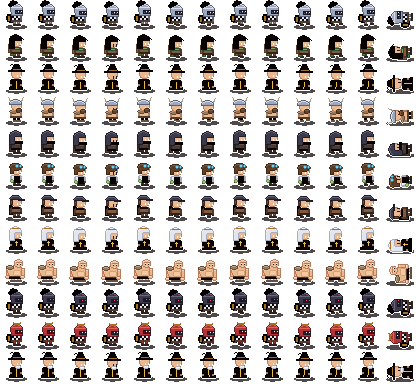
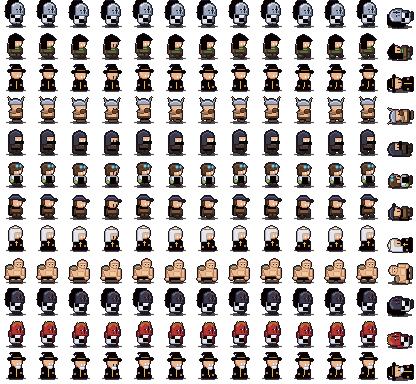
참고 그림처럼 도트 다듬기: 진한 검정 테두리, 큰 통투구·십자 눈 틈·흘러내리는 깃털, 4등분 겉옷
- 팀 색은 캐릭터 테두리 대신 발밑 고리로
- 유닛 해금 연출 (빛줄기 + 큰 도트 + 이름)

Claude-Session: https://claude.ai/code/session_01Fxb29UthuHm5NupsxcALjM

diff --git a/src/render.js b/src/render.js
@@ -52,7 +52,7 @@ function whiteSilhouette(img) {
 const hexRgb = (h) => [parseInt(h.slice(1, 3), 16), parseInt(h.slice(3, 5), 16), parseInt(h.slice(5, 7), 16)];
 
 // 캐릭터 도트: assets/heroes.png (tools/make_heroes.py). 한 줄 = 디자인 하나, 가로 13프레임
-// 바깥 흰 테두리 → 팀 색, 천 색(7,0,0/1/2) → 스킨·유닛 색, 안쪽 흰색(눈) → 스킨 눈 색
+// 발밑 고리(254,254,254) → 팀 색, 천 색(7,0,0/1/2) → 스킨·유닛 색, 흰색(눈) → 스킨 눈 색
 export const DESIGNS = ['knight', 'ranger', 'mage', 'berserker', 'rogue', 'alchemist', 'scout', 'priest', 'giant', 'darkknight', 'samurai', 'wizard'];
 // 디자인마다 기본 천 색 (기본 스킨 '그림자'일 때)
 const DESIGN_CLOTH = {
@@ -80,11 +80,6 @@ export function tintedPlayer(color, skin = 'shadow', design = 'knight') {
   g.drawImage(img, 0, row * 32, img.width, 32, 0, 0, img.width, 32);
   const data = g.getImageData(0, 0, c.width, c.height);
   const px = data.data, w = c.width, h = c.height;
-  const isOpen = (x, y) => {
-    if (x < 0 || y < 0 || x >= w || y >= h || (x % 32 === 0 && false)) return true;
-    const i = (y * w + x) * 4;
-    return px[i + 3] === 0 || (px[i] === 80 && px[i + 1] === 73 && px[i + 2] === 73); // 투명 또는 그림자
-  };
   const team = hexRgb(color), eye = hexRgb(S.eye || '#ffffff'), base = hexRgb(cloth);
   const clothCols = [base, shade(base, 0.35), shade(base, -0.45)];
   const out = new Uint8ClampedArray(px);
@@ -93,9 +88,8 @@ export function tintedPlayer(color, skin = 'shadow', design = 'knight') {
       const i = (y * w + x) * 4;
       if (px[i + 3] === 0) continue;
       if (px[i] === 7 && px[i + 1] === 0 && px[i + 2] <= 2) { const cc = clothCols[px[i + 2]]; out[i] = cc[0]; out[i + 1] = cc[1]; out[i + 2] = cc[2]; continue; }
-      if (px[i] !== 255 || px[i + 1] !== 255 || px[i + 2] !== 255) continue;
-      const cc = isOpen(x + 1, y) || isOpen(x - 1, y) || isOpen(x, y + 1) || isOpen(x, y - 1) ? team : eye;
-      out[i] = cc[0]; out[i + 1] = cc[1]; out[i + 2] = cc[2];
+      if (px[i] === 254 && px[i + 1] === 254 && px[i + 2] === 254) { out[i] = team[0]; out[i + 1] = team[1]; out[i + 2] = team[2]; continue; }
+      if (px[i] === 255 && px[i + 1] === 255 && px[i + 2] === 255) { out[i] = eye[0]; out[i + 1] = eye[1]; out[i + 2] = eye[2]; }
     }
   }
   g.putImageData(new ImageData(out, w, h), 0, 0);

diff --git a/src/panels.js b/src/panels.js
@@ -207,6 +207,18 @@ export function createAccountUI(root, { getSave, onLogin, onImport }) {
   return api;
 }
 
+// ---------------------------------------------------------------- 해금 연출 (빛줄기 + 큰 그림 + 이름)
+export function showReveal(imgSrc, name, sub = '') {
+  document.querySelector('.reveal')?.remove();
+  const el = document.createElement('div');
+  el.className = 'reveal';
+  el.innerHTML = `<div class="rays"></div><div class="rbody"><img src="${imgSrc}" alt=""><b>${esc(name)}</b>${sub ? `<small>${esc(sub)}</small>` : ''}</div>`;
+  const close = () => el.remove();
+  el.addEventListener('pointerdown', close);
+  setTimeout(close, 2600);
+  document.getElementById('wrap').appendChild(el);
+}
+
 // ---------------------------------------------------------------- 병영 (군단 편성)
 // 성키우기처럼: 정수로 유닛 해금·레벨업, 성 지키기에 데려갈 4종 선택 (4~7 키로 소환)
 export function createArmyUI(root, { getSave, onChange, preview }) {
@@ -246,7 +258,7 @@ export function createArmyUI(root, { getSave, onChange, preview }) {
     switch (b.dataset.army) {
       case 'close': api.close(); return;
       case 'unlock':
-        if (save.essence >= U.unlock && !A.unlocked.includes(k)) { save.essence -= U.unlock; A.unlocked.push(k); msg = `${U.name} 해금!`; }
+        if (save.essence >= U.unlock && !A.unlocked.includes(k)) { save.essence -= U.unlock; A.unlocked.push(k); msg = `${U.name} 해금!`; showReveal(preview(k), U.name, '새 군단 유닛 해금!'); }
         break;
       case 'up': {
         const lv = A.lv[k] || 1, cost = unitLevelCost(lv);
@@ -255,7 +267,10 @@ export function createArmyUI(root, { getSave, onChange, preview }) {
       }
       case 'sel':
         if (A.sel.includes(k)) A.sel = A.sel.filter((x) => x !== k);
-        else if (A.sel.length < ARMY_SLOTS) { if (k === 'giant' && !A.unlocked.includes(k)) A.unlocked.push(k); A.sel.push(k); }
+        else if (A.sel.length < ARMY_SLOTS) {
+          if (k === 'giant' && !A.unlocked.includes(k)) { A.unlocked.push(k); showReveal(preview(k), U.name, '전설 유닛 합류!'); }
+          A.sel.push(k);
+        }
         else msg = `${ARMY_SLOTS}종까지 데려갈 수 있어요. 하나를 먼저 빼세요`;
         break;
       default:

diff --git a/index.html b/index.html
@@ -4,24 +4,24 @@
   <meta charset="utf-8">
   <meta name="viewport" content="width=device-width, initial-scale=1">
   <title>던전 슈터</title>
-  <link rel="stylesheet" href="style.css?v=202610151143">
+  <link rel="stylesheet" href="style.css?v=202610151148">
   <!-- 버전 번호: 새로 올릴 때마다 tools/bump_version.py가 바꿔서, 예전 파일과 섞여 멈추는 문제를 막습니다 -->
-  <script>window.__ASSET_V = '202610151143';</script>
+  <script>window.__ASSET_V = '202610151148';</script>
   <script type="importmap">
   {
     "imports": {
-      "./src/main.js": "./src/main.js?v=202610151143",
-      "./src/game.js": "./src/game.js?v=202610151143",
-      "./src/data.js": "./src/data.js?v=202610151143",
-      "./src/maps.js": "./src/maps.js?v=202610151143",
-      "./src/net.js": "./src/net.js?v=202610151143",
-      "./src/render.js": "./src/render.js?v=202610151143",
-      "./src/tree.js": "./src/tree.js?v=202610151143",
-      "./src/treeui.js": "./src/treeui.js?v=202610151143",
-      "./src/guild.js": "./src/guild.js?v=202610151143",
-      "./src/guildui.js": "./src/guildui.js?v=202610151143",
-      "./src/config.js": "./src/config.js?v=202610151143",
-      "./src/panels.js": "./src/panels.js?v=202610151143"
+      "./src/main.js": "./src/main.js?v=202610151148",
+      "./src/game.js": "./src/game.js?v=202610151148",
+      "./src/data.js": "./src/data.js?v=202610151148",
+      "./src/maps.js": "./src/maps.js?v=202610151148",
+      "./src/net.js": "./src/net.js?v=202610151148",
+      "./src/render.js": "./src/render.js?v=202610151148",
+      "./src/tree.js": "./src/tree.js?v=202610151148",
+      "./src/treeui.js": "./src/treeui.js?v=202610151148",
+      "./src/guild.js": "./src/guild.js?v=202610151148",
+      "./src/guildui.js": "./src/guildui.js?v=202610151148",
+      "./src/config.js": "./src/config.js?v=202610151148",
+      "./src/panels.js": "./src/panels.js?v=202610151148"
     }
   }
   </script>

diff --git a/style.css b/style.css
@@ -271,3 +271,17 @@ button.link:hover:not(:disabled) { background: none; color: #d1c4e9; }
 .gcolors input { display: none; }
 .gcolors i { display: block; width: 28px; height: 28px; border-radius: 50%; border: 3px solid transparent; cursor: pointer; }
 .gcolors input:checked + i { border-color: #fff; }
+
+/* 해금 연출: 빛줄기 + 큰 도트 + 이름 */
+.reveal { position: absolute; inset: 0; z-index: 50; display: grid; place-items: center; overflow: hidden;
+  background: radial-gradient(circle, rgba(60,24,52,.85) 0%, rgba(10,6,14,.94) 70%); animation: rv-in .25s ease-out; cursor: pointer; }
+.reveal .rays { position: absolute; width: 180vmax; height: 180vmax; left: 50%; top: 50%; translate: -50% -50%;
+  background: repeating-conic-gradient(rgba(255,255,255,.13) 0 9deg, transparent 9deg 30deg); animation: rv-spin 14s linear infinite;
+  mask-image: radial-gradient(circle, #000 0%, transparent 45%); -webkit-mask-image: radial-gradient(circle, #000 0%, transparent 45%); }
+.reveal .rbody { position: relative; display: grid; justify-items: center; gap: 4px; animation: rv-pop .5s cubic-bezier(.2,1.6,.4,1); }
+.reveal img { width: 256px; height: 256px; image-rendering: pixelated; filter: drop-shadow(0 6px 0 rgba(0,0,0,.35)); }
+.reveal b { font-size: 64px; line-height: 1; color: #fff; margin-top: -40px; text-shadow: 0 4px 0 #1b1424, 0 0 18px rgba(0,0,0,.6); }
+.reveal small { color: #ffd54f; font-size: 18px; font-weight: 700; }
+@keyframes rv-spin { to { rotate: 360deg; } }
+@keyframes rv-in { from { opacity: 0; } }
+@keyframes rv-pop { from { scale: .3; opacity: 0; } }

diff --git a/tools/make_heroes.py b/tools/make_heroes.py
@@ -5,7 +5,7 @@
         assets/src/heroes-<디자인>.piskel  Piskel에서 열어 고칠 수 있는 한 줄짜리 원본
 
 색 약속 (게임이 바꿔 칠하는 색):
-  바깥 흰 테두리(255,255,255)  → 1P~4P 팀 색
+  발밑 고리(254,254,254)        → 1P~4P 팀 색 (캐릭터 테두리는 진한 검정)
   천 색 (7,0,0)/(7,0,1)/(7,0,2) → 스킨·유닛 색 (기본·밝게·어둡게)
   눈 흰색(255,255,255, 안쪽)    → 스킨 눈 색
 """
@@ -23,7 +23,8 @@ SRC = ASSETS / 'src'
 W = H = 32
 FRAMES = 13
 
-OUT_LINE = (255, 255, 255, 255)
+OUT_LINE = (24, 20, 30, 255)     # 바깥 테두리: 진한 검정 (참고 그림처럼)
+TEAM = (254, 254, 254, 255)       # 발밑 고리 → 팀 색
 EYE = (255, 255, 255, 255)
 CLOTH = ((7, 0, 0, 255), (7, 0, 1, 255), (7, 0, 2, 255))   # 기본, 밝게, 어둡게
 SHADOW = (80, 73, 73, 255)
@@ -137,46 +138,49 @@ def draw_eyes(s, f, y, x=(17, 20), tall=2):
 
 
 def knight(s, f, steel='steel', plume=True, eye_glow=False, samurai=False):
+    """참고 그림의 기사: 큰 통투구 + 십자 눈 틈, 등 뒤로 흘러내리는 깃털, 4등분 겉옷"""
     b = f['bob']
-    legs(s, f, steel)
-    # 등 뒤 망토
-    s.part(rect(9, 14 + b, 12, 22 + b), 'cloth')
-    arm(s, f, 10, steel)
-    torso(s, f, steel, belt='leather')
-    # 체크 무늬 겉옷 (천 색 + 흰색)
-    for y in range(16, 20):
-        for x in range(12, 20):
-            s.put(x, y + b, CLOTH[0] if ((x // 2 + y // 2) % 2 == 0) else P['white'][0])
-    for x in range(12, 20):
-        s.put(x, 15 + b, P[steel][2])
-    # 투구
-    helm = ellipse(16.5, 9.5 + b, 6.4, 6.2) | rect(11, 9 + b, 22, 15 + b)
-    s.part(helm, steel)
-    # 얼굴 가리개 + 눈 틈
-    s.part(rect(15, 10 + b, 22, 13 + b), (P[steel][2], P[steel][2], INK), light_dir=False)
-    for x in range(16, 22):
-        s.put(x, 11 + b, INK)
-    for ex in (18, 21):
-        s.put(ex, 11 + b, EYE if not eye_glow else (255, 82, 82, 255))
-    for y in (12, 13):
-        for x in range(17, 22, 2):
-            s.put(x, y + b, INK)
-    # 이마 줄
-    for x in range(12, 22):
-        s.put(x, 7 + b, P[steel][1])
-    if samurai:
-        # 투구 장식 (금색 뿔)
-        s.part({(13, 2 + b), (13, 3 + b), (14, 3 + b), (14, 4 + b), (20, 2 + b), (20, 3 + b), (19, 3 + b), (19, 4 + b)}, 'gold', light_dir=False)
-        s.part(rect(15, 3 + b, 18, 4 + b), 'gold')
-    elif plume:
-        # 깃털 (천 색): 투구 위에서 뒤로 넘어감
-        pl = ellipse(13, 3 + b, 3.2, 2.6) | ellipse(10.5, 5 + b, 2.4, 2.4) | ellipse(15.5, 2.5 + b, 2.2, 1.8)
+    legs(s, f, steel, boot='dsteel')
+    # 깃털 (투구 위에서 등 뒤로 흘러내림) - 투구보다 먼저 그려서 뒤에 있게
+    if plume and not samurai:
+        pl = (ellipse(12, 3 + b, 4.2, 3.2) | ellipse(9.5, 7 + b, 3.6, 3.6) | ellipse(8.5, 11.5 + b, 3, 3.4)
+              | ellipse(8.5, 15.5 + b, 2.6, 2.6) | ellipse(15.5, 1.8 + b, 3, 2))
         s.part(pl, 'cloth')
-    arm(s, f, 20, steel)
-    # 방패 (뒤쪽 팔)
-    sh = ellipse(9, 18 + b, 3.2, 4)
-    s.part(sh, 'cloth')
-    s.part(rect(8, 16 + b, 9, 20 + b), 'gold', light_dir=False)
+        for (x, y) in [(11, 3), (9, 7), (13, 5), (8, 11), (10, 9), (9, 15), (14, 2)]:
+            s.put(x, y + b, CLOTH[1])          # 깃털 결 (밝게)
+        for (x, y) in [(12, 6), (8, 9), (10, 13), (7, 14), (16, 3)]:
+            s.put(x, y + b, CLOTH[2])          # 깃털 결 (어둡게)
+    arm(s, f, 10, steel, glove='dsteel')
+    # 몸: 4등분 겉옷 (천 색 / 흰색)
+    tab = rect(10, 14 + b, 20, 22 + b) - {(10, 22 + b), (20, 22 + b)}
+    s.part(tab, 'white')
+    for (x, y) in tab:
+        if not any((x + dx, y + dy) not in tab for dx, dy in ((1, 0), (-1, 0), (0, 1), (0, -1))):
+            top, left = y - b < 18, x < 15
+            if top == left:
+                s.put(x, y, CLOTH[2] if (x == 11 or y - b == 15) and False else CLOTH[0])
+    # 큰 통투구
+    helm = ellipse(17, 8.5 + b, 6.4, 6.2) | rect(11, 8 + b, 23, 14 + b)
+    s.part(helm, steel)
+    for x in range(12, 23):                      # 아래쪽 어두운 그늘
+        s.put(x, 14 + b, P[steel][2])
+    for (x, y) in [(14, 4), (15, 4), (13, 5), (14, 5), (13, 6)]:
+        s.put(x, y + b, P[steel][1])             # 반짝임
+    # 십자 눈 틈
+    for x in range(16, 23):
+        s.put(x, 9 + b, INK)
+    for y in range(6, 13):
+        s.put(20, y + b, INK)
+    eye = EYE if not eye_glow else (255, 82, 82, 255)
+    s.put(18, 9 + b, eye)
+    s.put(22, 9 + b, eye)
+    for (x, y) in [(17, 11), (17, 12), (22, 11), (22, 12)]:
+        s.put(x, y + b, P[steel][2])             # 숨구멍
+    if samurai:
+        s.part({(13, 2 + b), (13, 3 + b), (14, 3 + b), (14, 4 + b), (21, 2 + b), (21, 3 + b), (20, 3 + b), (20, 4 + b)}, 'gold', light_dir=False)
+        s.part(rect(15, 2 + b, 19, 3 + b), 'gold')
+        s.part(rect(9, 11 + b, 11, 16 + b), steel)   # 볼 가리개
+    arm(s, f, 20, steel, glove='dsteel')
 
 
 def ranger(s, f, hood='cloth', cloak='green'):
@@ -358,7 +362,7 @@ def frame_info(i):
 
 
 def exterior_outline(im):
-    """바깥 테두리 1칸 (팀 색으로 바뀜)"""
+    """바깥 테두리 1칸 (진한 검정)"""
     out = im.copy()
     for y in range(H):
         for x in range(W):
@@ -370,12 +374,20 @@ def exterior_outline(im):
     return out
 
 
+def ground(base, cx, cy, rx, ry):
+    """발밑 그림자 + 팀 색 고리"""
+    inside = lambda x, y: ((x + 0.5 - cx) / rx) ** 2 + ((y + 0.5 - cy) / ry) ** 2 <= 1
+    for y in range(H):
+        for x in range(W):
+            if not inside(x, y):
+                continue
+            edge = not all(inside(x + dx, y + dy) for dx, dy in ((1, 0), (-1, 0), (0, 1), (0, -1)))
+            base.putpixel((x, y), TEAM if edge else SHADOW)
+
+
 def with_shadow(fig):
     base = Image.new('RGBA', (W, H), (0, 0, 0, 0))
-    for y in range(23, 30):
-        for x in range(4, 29):
-            if ((x - 16) / 10.5) ** 2 + ((y - 26.5) / 2.6) ** 2 <= 1:
-                base.putpixel((x, y), SHADOW)
+    ground(base, 16, 26.5, 10.5, 2.8)
     base.alpha_composite(fig)
     return base
 
@@ -384,10 +396,7 @@ def dead(fig_closed):
     """쓰러짐: 눈 감고 옆으로 누움"""
     body = fig_closed.crop((4, 0, 28, 27)).rotate(90, expand=True)
     out = Image.new('RGBA', (W, H), (0, 0, 0, 0))
-    for y in range(24, 30):
-        for x in range(2, 30):
-            if ((x - 16) / 14) ** 2 + ((y - 27) / 3) ** 2 <= 1:
-                out.putpixel((x, y), SHADOW)
+    ground(out, 16, 27, 14, 3)
     bb = body.getbbox()
     part = body.crop(bb)
     out.alpha_composite(part, (16 - part.width // 2, 29 - part.height))

diff --git a/README.md b/README.md
@@ -249,7 +249,7 @@ Soul Knight 스타일의 탑다운 로그라이크 슈팅 게임입니다. **PC 
 | 성직자 | 20 | ◆150 | 유닛·플레이어·성 회복 |
 | 거인 | 45 | 왕관 노드 「거인의 맹약」 | 느리지만 엄청 튼튼 |
 
-레벨업 비용: ◆15 × 지금 레벨 (최대 10레벨). 수치는 `src/data.js`의 `UNITS`, `CASTLE`에서 바꿀 수 있습니다.
+레벨업 비용: ◆15 × 지금 레벨 (최대 10레벨). 유닛을 해금하면 빛줄기와 함께 큰 그림으로 소개됩니다. 수치는 `src/data.js`의 `UNITS`, `CASTLE`에서 바꿀 수 있습니다.
 
 ### 함정
 던전 전투 방과 생존 모드 들판에 함정이 있습니다. **플레이어와 적 모두 맞으니** 적을 유인해서 써 보세요. 대시 중에는 가시·불길을 피할 수 있습니다.
@@ -434,7 +434,7 @@ tools/make_heroes.py   캐릭터·군단 유닛·장비 스킨 도트를 다시 
 ### 도트 고치기
 - **캐릭터·유닛:** `assets/src/heroes-<디자인>.piskel`을 [Piskel](https://www.piskelapp.com/)에서 열어 고친 뒤, Export → PNG → Spritesheet(가로 한 줄)로 내보내서 `assets/heroes.png`의 같은 줄에 붙여 넣습니다. (또는 `tools/make_heroes.py`의 그림 함수를 고치고 `python tools/make_heroes.py` 실행)
   - 줄 순서: 기사, 레인저, 마법사, 광전사, 도적, 연금술사, 스카웃, 성직자, 거인, 다크나이트, 사무라이, 대마법사
-  - 색 약속: 바깥 흰 테두리 = 팀 색으로 바뀜, 천 색 `(7,0,0)`·`(7,0,1)`·`(7,0,2)` = 스킨 옷 색(기본·밝게·어둡게)으로 바뀜, 안쪽 순수 흰색 = 눈 색
+  - 색 약속: 발밑 고리 `(254,254,254)` = 팀 색으로 바뀜, 천 색 `(7,0,0)`·`(7,0,1)`·`(7,0,2)` = 스킨 옷 색(기본·밝게·어둡게)으로 바뀜, 순수 흰색 = 눈 색. 캐릭터 테두리는 진한 검정입니다.
 - **무기·몬스터:** `assets/src/weapons.piskel`, `enemies.piskel`, `bosses.piskel` (또는 `tools/make_sprites.py`)
 - **프레임 순서와 크기는 그대로** 지켜 주세요. 무기 순서는 `tools/make_sprites.py`의 `WEAPON_ORDER`를 따릅니다.
 - 무기 그림은 **손잡이가 (3, 6) 픽셀 위치**에 오도록 그려야 손에 맞게 들립니다.
